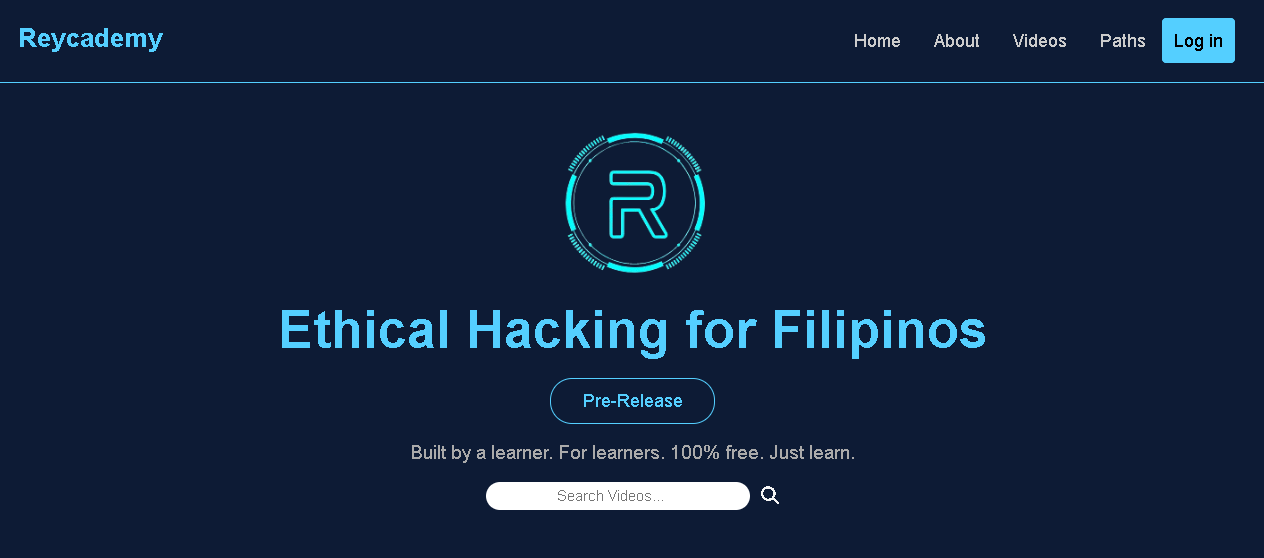
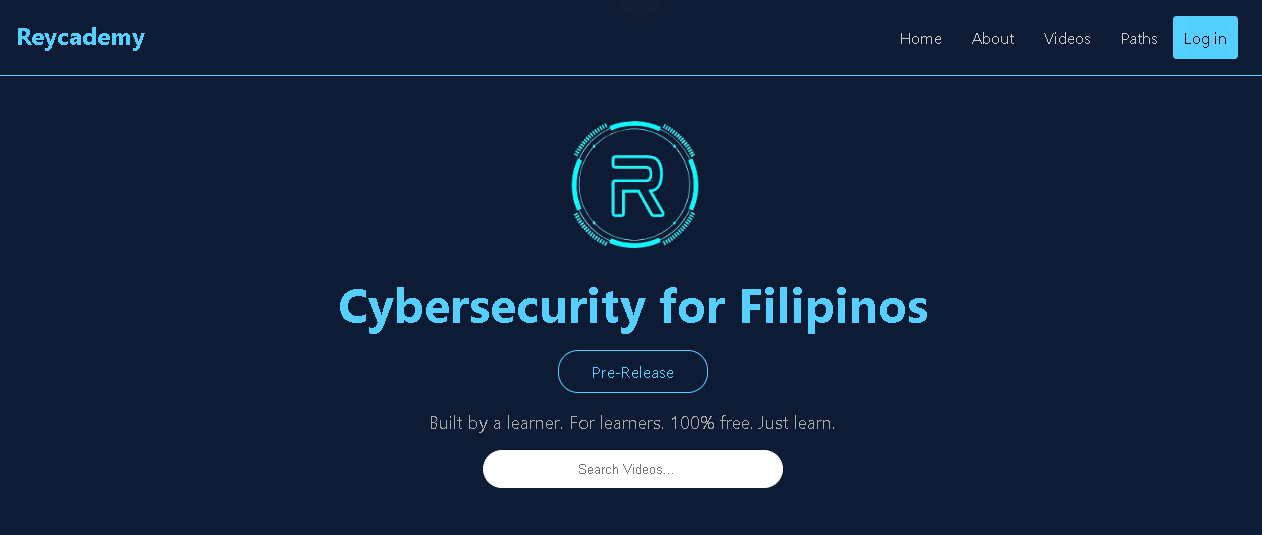
docs: update project info | change emoji in web tech section

diff --git a/index.html b/index.html
@@ -245,7 +245,7 @@
                     </div>
 
                     <div class="skill-category">
-                        <h3>🕸 Web Technologies</h3>
+                        <h3>📚 Web Technologies</h3>
                         <ul>
                             <li>
                                 HTML
@@ -540,9 +540,9 @@
                         </div>
                     </div>
 
-                    <h3>Reycademy Website v0.0.1</h3>
-                    <p>A free ethical hacking education site with structured Tagalog videos and hands-on training.</p>
-                    <p class="tech">HTML | CSS | JavaScript | Flask | SQL</p>
+                    <h3>Reycademy Website v0.2.1</h3>
+                    <p>A free cybersecurity education site with structured Tagalog videos and hands-on training.</p>
+                    <p class="tech">HTML | CSS | JavaScript | Express | SQL</p>
                     <div class="project-links">
                         <a href="https://github.com/R3ym0nd0/Reycademy" target="_blank">View Source</a>
                     </div>
